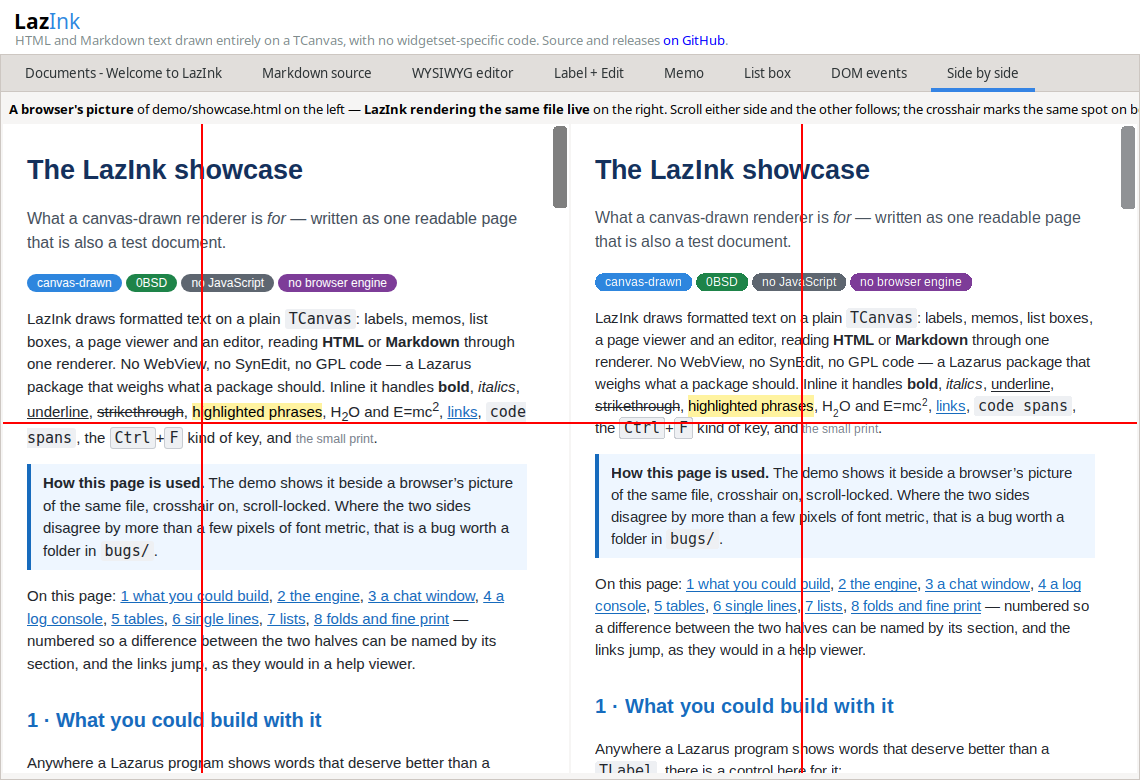
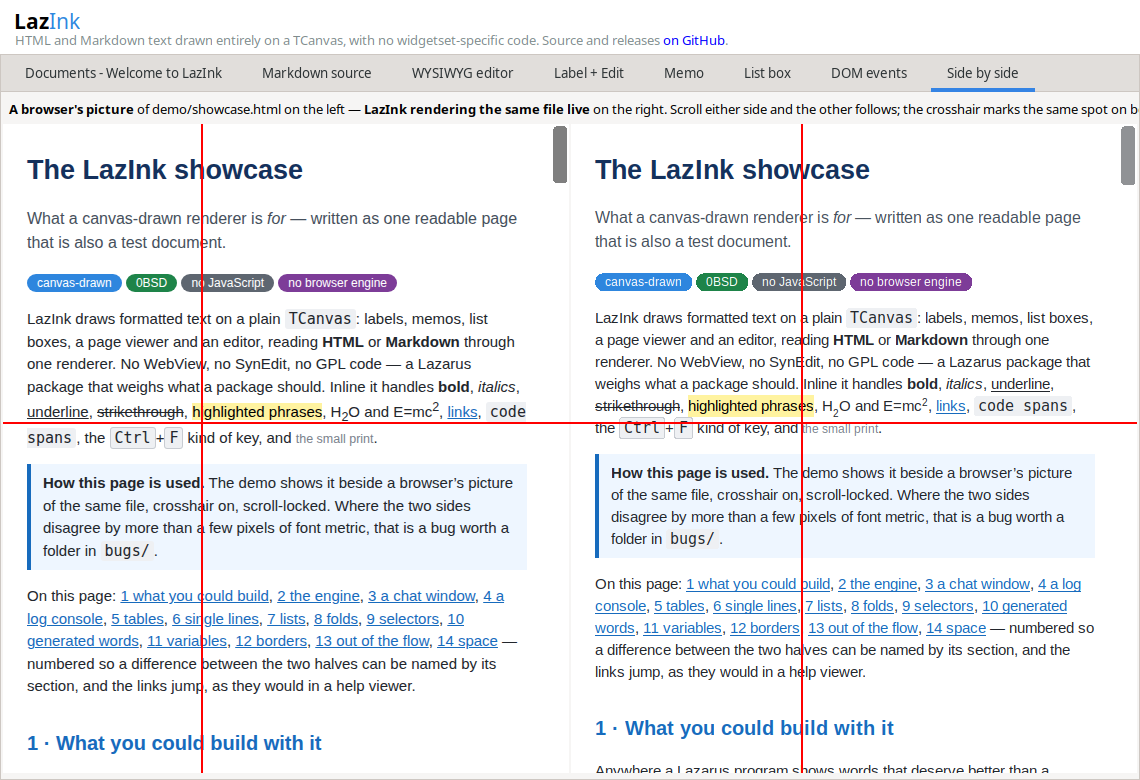
The showcase grows six CSS sections

diff --git a/demo/showcase.html b/demo/showcase.html
@@ -77,6 +77,44 @@
   .shout { text-transform: uppercase }
   figure { margin: 14px 0 }
   figcaption { font-size: 12px; color: #7a828c; margin-top: 4px }
+  /* 9: selectors doing the work */
+  table.roster tr:nth-child(even) td { background: #f2f5f9 }
+  table.roster td:first-child { font-weight: bold }
+  table.roster tr:last-child td { border-bottom: 2px solid #176bbd }
+  caption { font-size: 12px; color: #7a828c; caption-side: top;
+            text-align: left; padding-bottom: 4px }
+  /* 10: generated content */
+  ul.crumbs { list-style: none; padding: 0 }
+  ul.crumbs li { display: inline }
+  ul.crumbs li + li::before { content: " / "; color: #7a828c }
+  p.tagged::before { content: "NOTE "; color: #d97706; font-weight: bold;
+                     font-size: 12px }
+  a.out::after { content: " \2197" }
+  /* 11: variables, calc and color-mix */
+  :root { --accent: #2e86de; --pad: 8px }
+  .swatch { display: inline-block; width: 90px; padding: 6px 0;
+            text-align: center; color: white; font-size: 12px }
+  .meter { background: #eef0f3; padding: var(--pad) }
+  .meter div { background: var(--accent); color: white; font-size: 12px;
+               padding: 2px 8px; width: calc(70% - 16px) }
+  /* 12: borders of every stripe */
+  .bb { display: inline-block; width: 110px; padding: 6px 8px;
+        margin: 4px 6px 4px 0; font-size: 12px; text-align: center }
+  .dot { border-radius: 50%; width: 46px; height: 46px; background: #2e86de;
+         display: inline-block }
+  hr.fat { border: none; height: 6px; background: #c7d2fe }
+  /* 13: out of the flow */
+  .well { border: 1px solid #d8dce2; padding: 10px; margin: 10px 0 }
+  .fl { width: 110px; padding: 8px; font-size: 12px; background: #f4f7ff;
+        border: 1px solid #c7d2fe }
+  .tag { position: absolute; top: -10px; right: 12px; background: #d97706;
+         color: white; font-size: 11px; padding: 2px 8px;
+         border-radius: 999px }
+  .ib { display: inline-block; border: 1px solid #d8dce2; padding: 6px 10px;
+        margin-right: 6px; border-radius: 6px; font-size: 13px }
+  /* 14: space, kept and squeezed */
+  pre.poem { background: none; padding: 0; white-space: pre-wrap;
+             font-family: Arial, sans-serif; color: #46505c }
 </style>
 </head>
 <body>
@@ -113,7 +151,11 @@ that is a bug worth a folder in <code>bugs/</code>.</div>
 window</a>, <a href="#log">4 a log console</a>,
 <a href="#tables">5 tables</a>, <a href="#lines">6 single
 lines</a>, <a href="#lists">7 lists</a>,
-<a href="#folds">8 folds and fine print</a> &mdash; numbered so a
+<a href="#folds">8 folds</a>,
+<a href="#sel">9 selectors</a>, <a href="#gen">10 generated words</a>,
+<a href="#vars">11 variables</a>, <a href="#borders">12 borders</a>,
+<a href="#flow">13 out of the flow</a>, <a href="#space">14 space</a>
+&mdash; numbered so a
 difference between the two halves can be named by its section, and
 the links jump, as they would in a help viewer.</p>
 
@@ -323,6 +365,133 @@ begin
   Page.LoadMarkdown('# Hello' + LineEnding + 'It *renders*.');
   Page.OnElementClick := @WhatScriptWouldDo;  { the host's turn }
 end;</code></pre>
+
+
+<h2 id="sel">9 &middot; Selectors doing the work</h2>
+
+<p>None of this table&rsquo;s rows is styled by hand: the zebra is
+<code>tr:nth-child(even)</code>, the bold first column
+<code>td:first-child</code>, the closing rule
+<code>tr:last-child</code>, and the title is a real
+<code>&lt;caption&gt;</code>:</p>
+
+<table class="roster">
+  <caption>The controls, striped by the stylesheet</caption>
+  <tr><th>Control</th><th>Kind</th><th>Since</th></tr>
+  <tr><td>TInkLabel</td><td>display</td><td>the beginning</td></tr>
+  <tr><td>TInkListBox</td><td>list</td><td>the forum demo</td></tr>
+  <tr><td>TInkMemo</td><td>display</td><td>early on</td></tr>
+  <tr><td>TInkPage</td><td>document</td><td>the help viewer</td></tr>
+  <tr><td>TInkRichEdit</td><td>editor</td><td>October 2026</td></tr>
+</table>
+
+<h2 id="gen">10 &middot; Words the stylesheet wrote</h2>
+
+<p>The slashes, the NOTE and the arrow below are not in the markup -
+they are <code>::before</code> and <code>::after</code> content:</p>
+
+<ul class="crumbs">
+  <li><a href="#top">home</a></li>
+  <li><a href="#build">controls</a></li>
+  <li>TInkPage</li>
+</ul>
+
+<p class="tagged">a paragraph the stylesheet labels, the way docs sites
+tag their callouts.</p>
+
+<p>An outbound link grows its arrow:
+<a class="out" href="https://www.lazarus-ide.org/">the Lazarus site</a>.</p>
+
+<h2 id="vars">11 &middot; Variables, calc() and color-mix()</h2>
+
+<p>One <code>--accent</code> variable, mixed down the line with
+<code>color-mix()</code>:</p>
+
+<p>
+<span class="swatch" style="background: var(--accent)">accent</span><span
+ class="swatch" style="background: color-mix(in srgb, var(--accent) 70%, white)">70%</span><span
+ class="swatch" style="background: color-mix(in srgb, var(--accent) 40%, white); color: #22262c">40%</span><span
+ class="swatch" style="background: color-mix(in srgb, var(--accent) 15%, white); color: #22262c">15%</span>
+</p>
+
+<p>And a meter whose bar is <code>calc(70% - 16px)</code> wide, inside
+padding named by <code>var(--pad)</code>:</p>
+
+<div class="meter"><div>70 percent</div></div>
+
+<h2 id="borders">12 &middot; Borders of every stripe</h2>
+
+<p>
+<span class="bb" style="border: 2px solid #5e6670">solid</span>
+<span class="bb" style="border: 2px dashed #5e6670">dashed</span>
+<span class="bb" style="border: 2px dotted #5e6670">dotted</span>
+<span class="bb" style="border: 4px double #5e6670">double</span>
+<span class="bb" style="border: 3px inset #9aa4b0">inset</span>
+<span class="bb" style="border: 3px outset #9aa4b0">outset</span>
+<span class="bb" style="border: 4px groove #9aa4b0">groove</span>
+<span class="bb" style="border: 4px ridge #9aa4b0">ridge</span>
+</p>
+
+<p>A radius of 50% is a circle <span class="dot"></span> and a styled
+<code>&lt;hr&gt;</code> is a band:</p>
+
+<hr class="fat">
+
+<h2 id="flow">13 &middot; Out of the flow</h2>
+
+<p>Two floated boxes, one each way, and a cleared line under them -
+said plainly: words do not yet flow line by line <i>beside</i> a
+float, so this page keeps its floats on lines of their own:</p>
+
+<div class="well">
+  <div class="fl" style="float: left">floated left</div>
+  <div class="fl" style="float: right">floated right</div>
+  <div style="clear: both; padding-top: 8px">the cleared line walks
+  under both floats.</div>
+</div>
+
+<p>A positioned badge pins to its card&rsquo;s corner, out of the flow
+entirely:</p>
+
+<div class="well" style="position: relative; margin-top: 16px">
+  <span class="tag">pinned</span>
+  The card is <code>position:&nbsp;relative</code>, the badge
+  <code>absolute</code> - the way a &ldquo;NEW&rdquo; sticker sits on a
+  product tile.
+</div>
+
+<p>And three <code>inline-block</code> chips that flow like words:</p>
+
+<p><span class="ib">one</span><span class="ib">two</span><span
+ class="ib">three</span> &mdash; the paragraph carries on after them.</p>
+
+<h2 id="space">14 &middot; Space, kept and squeezed</h2>
+
+<p>A <code>pre-wrap</code> block keeps the poet&rsquo;s line breaks and
+indents, in the page&rsquo;s own face:</p>
+
+<pre class="poem">The renderer walked into town,
+    its boxes stacked up high -
+it drew each border, left to right,
+        and let the floats go by.</pre>
+
+<p>Sizes share one baseline:
+<span style="font-size: 12px">twelve</span>
+<span style="font-size: 15px">fifteen</span>
+<span style="font-size: 22px">twenty-two</span>
+<span style="font-size: 12px">and twelve again</span> - the small words
+stand on the same line as the large.</p>
+
+<p>The heading ladder, h3 to h6:</p>
+<h3 style="margin: 4px 0">An h3 heading</h3>
+<h4 style="margin: 4px 0">An h4 heading</h4>
+<h5 style="margin: 4px 0">An h5 heading</h5>
+<h6 style="margin: 4px 0">An h6 heading</h6>
+
+<p>And the quieter inline semantics: <del>deleted</del> and
+<ins>inserted</ins> text, a <q>quoted phrase</q> with its own marks,
+a <cite>cited title</cite>, <var>variables</var> beside
+<samp>sample output</samp>.</p>
 
 <hr>
 

diff --git a/docs/GUIDE.md b/docs/GUIDE.md
@@ -499,7 +499,7 @@ Markdown notes app - while using the vocabulary once each: tables with
 spans, flex cards, grid, pills, a mocked chat and log, `text-overflow`,
 `<wbr>`, nested folds, highlighted code, entities.  After editing it,
 remake the picture with `tools/browser_shot.sh demo/showcase.html
-demo/showcase-browser.png 548 5100` (shoot tall once and read off the
+demo/showcase-browser.png 548 7310` (shoot tall once and read off the
 new height if the page grew).
 
 ![The side by side tab](../images/demo-compare.png)
